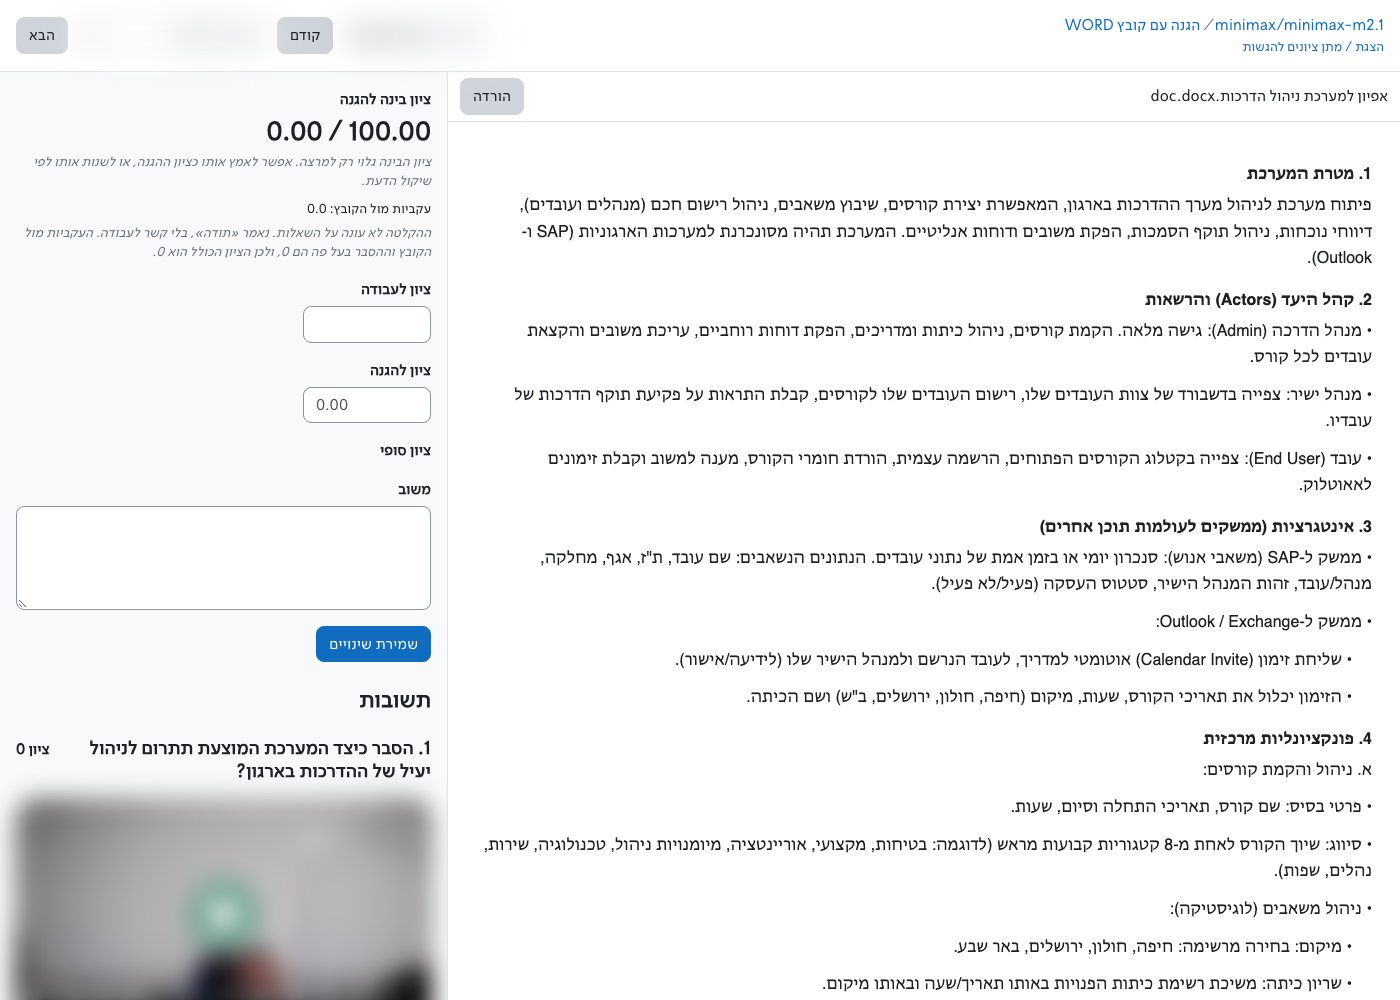
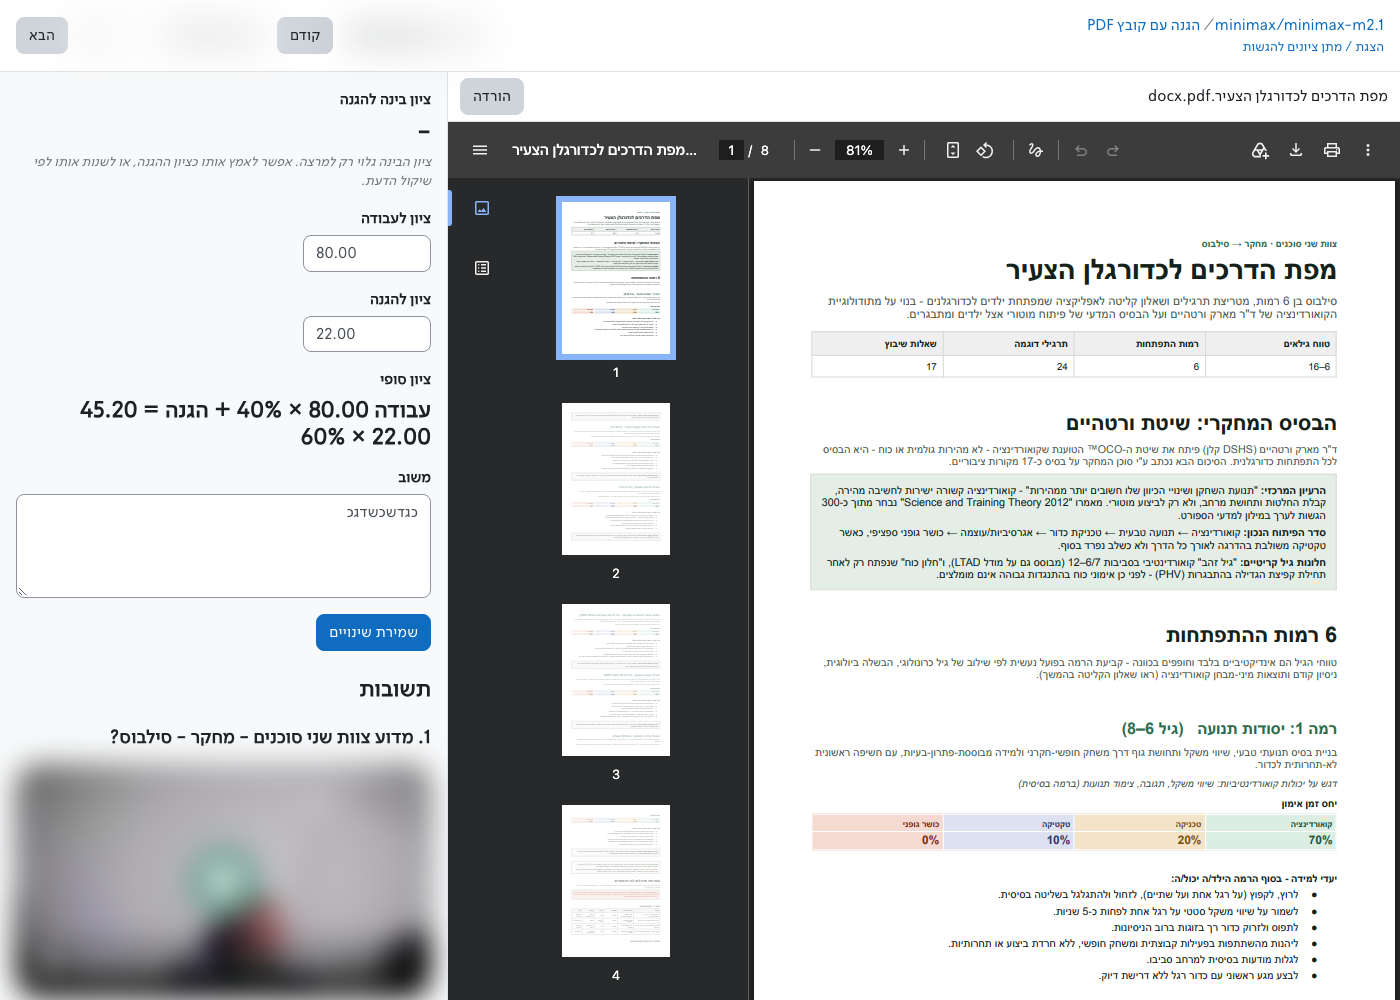
Remove obsolete login script and update README for clarity: Deleted the .sv-readme-login.php file and revised the README.md to enhance descriptions of the Stream Voice module's grading process and user interactions.

diff --git a/README.md b/README.md
@@ -2,7 +2,7 @@
 
 Moodle activity module (`mod_streamvoice`) for an oral defense of submitted work.
 
-A student submits a file. Stream Voice locks that file and asks the student to explain it on camera: preparation time with speaker notes, then a timed recording for each question. Stream transcribes the answers, scores them against a rubric, and checks that the explanation matches the locked file. The score is written back to the Moodle gradebook.
+A student submits a file. Stream Voice locks that file and asks the student to explain it on camera: preparation time with speaker notes, then a timed recording for each question. Stream transcribes the answers, scores them against a rubric, and checks that the explanation matches the locked file. That recommendation stays with the teacher. The teacher grades the written work and the defense, and the saved final grade is what enters the Moodle gradebook and what the student sees.
 
 The aim is to see that the student understands the work and can justify it. The activity does not try to detect whether a tool wrote the file.
 
@@ -29,16 +29,48 @@ Stream Voice is the activity shell inside Moodle. Question generation, the timer
 * **Preparation time** and **answer time** are enforced by Stream.
 * **Number of questions** is from 1 to 8. Fixed questions, one per line, are asked first. Stream writes any remaining questions from the submitted file.
 * **Rubric** is sent to Stream. If it is empty, Stream scores understanding, justification, consistency with the file, and independent reasoning.
-* **Consistency weight** and **oral weight** must add up to 100. The gradebook grade is that score as a percentage of the activity grade.
+* **Weight of the work grade** and **weight of the defense grade** must add up to 100. The final grade is the work grade times the work weight, plus the defense grade times the defense weight. The defense grade starts from Stream's recommendation, and the teacher can change it.
 * A new file can be allowed only before the first recording. After that, the file stays locked.
 
 ## What people do
 
-**Students** submit a file, read the questions during preparation time, record an answer to each question, and can refresh the score after the recordings are in.
+Names and pictures of people are blurred in the screenshots below.
 
-**Teachers** open the Stream Voice report from the activity. It lists submissions, status, the score, recordings and transcripts.
+### Students
 
-**Administrators** can see Stream Voice usage (activities, locked submissions, questions, recordings and scores) on the Stream usage report.
+The student opens the activity, submits a file, and continues into the defense. The activity page shows the submission status and the submitted file. It does not show recordings or the automatic score.
+
+![Student activity page, with the file submitted and a button to continue the defense](docs/images/student-activity.png)
+
+Preparation time shows the first question, a countdown, and speaker notes. Saving the notes ends preparation. Each question is then recorded on camera, with its own countdown. The student does not see the recordings afterwards, and there is no button to refresh a score.
+
+![Preparation screen: a question, a two-minute timer, speaker notes, and the button that starts recording](docs/images/student-prep.png)
+
+When the answers are in, the defense locks. Until the teacher saves a grade, the student only sees that the defense is finished and that the final grade and feedback will appear here.
+
+![Locked defense, before the teacher has saved a grade](docs/images/student-done.png)
+
+After the teacher saves, the same screen shows the final grade and the teacher's feedback. Nothing else from the marking is released.
+
+![The grade and feedback a student sees after the teacher saves](docs/images/student-result.png)
+
+### Teachers
+
+The activity page has the grading summary, **Grade**, and **View all submissions**.
+
+![Teacher activity page, with Grade, View all submissions, and the grading summary](docs/images/teacher-activity.png)
+
+**View all submissions** lists participants, status, the submitted file, Stream's defense score, and the final grade. Grades are not edited on this list. First-letter filters and paging work as they do elsewhere in Moodle.
+
+![Submissions list. The participant column is blurred](docs/images/teacher-submissions.png)
+
+**Grade** opens a full-screen grader. The submitted file is on one side: PDF and images open in the browser, and a Word file is shown as a reading view. The original file can still be downloaded. On the other side the teacher sees Stream's defense score, types a grade for the work and a grade for the defense, and writes feedback. The defense grade is filled in from Stream's score and can be changed. The final grade is shown as it will be saved, for example work × 40% + defense × 60%. Saving writes that grade to the course gradebook and releases the grade and feedback to the student. Recordings and transcripts stay on this screen, for the teacher only.
+
+![Grader: the submitted PDF beside the work grade, the defense grade, and the combined final grade. The recording is blurred](docs/images/teacher-grader.png)
+
+### Administrators
+
+Administrators can see Stream Voice usage (activities, locked submissions, questions, recordings and scores) on the Stream usage report. **Site administration → Plugins → Activity modules → Stream Voice** also has a recording check: it records a few seconds in the browser and plays them back, and it does not upload anything.
 
 ## Privacy
 
